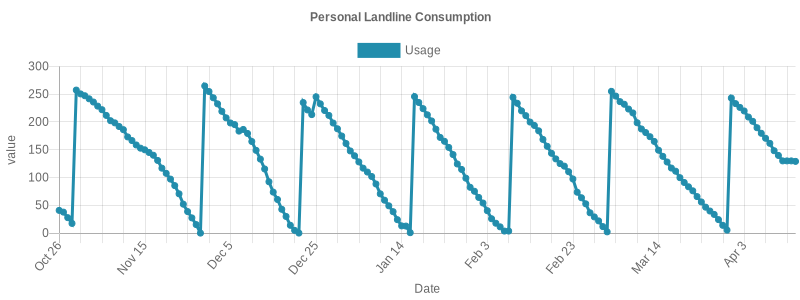
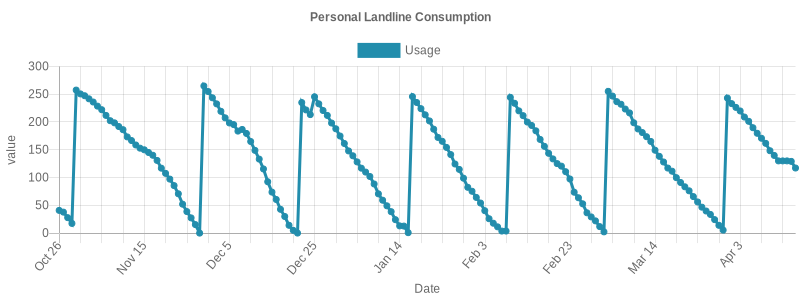
update logs

diff --git a/quota-logs/README.md b/quota-logs/README.md
@@ -171,3 +171,4 @@
 ## Sat Apr 13 2024 00:35:51 GMT+0200|129.95/250
 ## Sun Apr 14 2024 00:34:55 GMT+0200|129.95/250
 ## Mon Apr 15 2024 00:37:15 GMT+0200|129.07/250
+## Tue Apr 16 2024 00:36:39 GMT+0200|117.12/250
